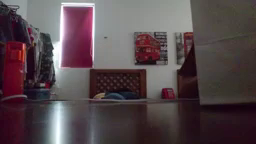
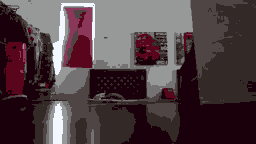
fixed the region shifts

diff --git a/MeanShiftTracking.py b/MeanShiftTracking.py
@@ -6,19 +6,19 @@ import math
 
 
 def computeBackProjection(roi, target):
-    roi_hist = cv2.calcHist([hsv],[0, 1], None, [180, 256], [0, 180, 0, 256] )
+    roihist = cv2.calcHist([roi],[0, 1], None, [180, 256], [0, 180, 0, 256] )
     channels = [0,1,2]
     binsBGR = [8,8,8]
     ranges = [0,256,0,256,0,256]
     bgrhist = cv2.calcHist([roi],channels, None, binsBGR, ranges )
     cv2.normalize(roihist,roihist,0,255,cv2.NORM_MINMAX)
-    dst = cv2.calcBackProject([hsvt],[0,1],roihist,[0,180,0,256],1)
+    dst = cv2.calcBackProject([target],[0,1],roihist,[0,180,0,256],1)
     disc = cv2.getStructuringElement(cv2.MORPH_ELLIPSE,(5,5))
     cv2.filter2D(dst,-1,disc,dst)
     ret,thresh = cv2.threshold(dst,50,255,0)
     thresh = cv2.merge((thresh,thresh,thresh))
     res = cv2.bitwise_and(target,thresh)
-    res = np.vstack((target,thresh,res))
+    #res = np.vstack((target,thresh,res))
     return res
 
 
@@ -86,70 +86,125 @@ def map_intesity_to_bin(intesity_value):
     elif intesity_value <= 256:
         return 7
     
-def compute_k_means_filtering(frame):
-    pass
+def compute_k_means_filtering(img):
+    Z = img.reshape((-1,3))
+    # convert to np.float32
+    Z = np.float32(Z)
+    # define criteria, number of clusters(K) and apply kmeans()
+    criteria = (cv2.TERM_CRITERIA_EPS + cv2.TERM_CRITERIA_MAX_ITER, 10, 1.0)
+    K = 8
+    ret,label,center=cv2.kmeans(Z,K,None,criteria,10,cv2.KMEANS_RANDOM_CENTERS)
+    # Now convert back into uint8, and make original image
+    center = np.uint8(center)
+    res = center[label.flatten()]
+    res2 = res.reshape((img.shape))
+    return cv2.normalize(res2,  res2, 0, 255, cv2.NORM_MINMAX)
+    
 
+
+def print_color_histogram(hist):
+    for i  in range(0 , hist.shape[0]):
+        for j in range(0 , hist.shape[1]):
+            for k in range(0, hist.shape[2]):
+                print('BIN ', i,j,k,"= ")
+                print(hist[i,j,k])
+
+def binarize(img):
+    for i in range(0, img.shape[0]):
+        for j in range(0, img.shape[1]):
+            if img[i,j] > 0.01:
+                img[i,j] = 255
+            else:
+                img[i,j] = 0
+    return img
 
 def computeWeightedHistogram(img, region_boundaries):
-    KERNEL_REG_TERM = 1.5
-    histogram = np.zeros((8,8 ,8), dtype = int) 
-    weight_matrix = np.zeros((height,width,3), np.float)
-    origin = np.array([region_boundaries["origin_x"],region_boundaries["origin_y"]])
+    histogram = np.zeros((8,8 ,8), dtype = float)     
+    weight_matrix = np.zeros((img.shape[0],img.shape[1]), np.float)
+    origin = np.array([int(math.ceil(region_boundaries["origin_y"])),int(math.ceil(region_boundaries["origin_x"]))])
     regularization_term = 0.0
-    for i in range(region_boundaries["from_x"], region_boundaries["to_x"]):
-        for j in range(region_boundaries["from_y"], region_boundaries["to_y"]):
+    for i in range(region_boundaries["from_y"], region_boundaries["to_y"]):
+        for j in range(region_boundaries["from_x"], region_boundaries["to_x"]):
             pixel_spatial_position = np.array([i, j])
-            weight = compute_gaussian_kernel(origin, pixel_spatial_position, KERNEL_REG_TERM)
-            i_sub_region = region_boundaries["from_x"] - i
-            j_sub_region = region_boundaries["from_y"] - j
+            weight = compute_gaussian_kernel(origin, pixel_spatial_position)
+            i_sub_region = abs(region_boundaries["from_y"] - i)
+            j_sub_region = abs(region_boundaries["from_x"] - j)
             weight_matrix[i_sub_region, j_sub_region] = weight
             B = map_intesity_to_bin(img[i, j, 0])
             G = map_intesity_to_bin(img[i, j, 1])
             R = map_intesity_to_bin(img[i, j, 2])
             histogram[B,G,R] += (1 + weight)
             regularization_term += weight
-    histogram = 1/regularization_term * histogram 
-    cv.imwrite('weight matrix.png', weight_matrix)
+    histogram = (1/regularization_term) * histogram 
     return histogram
 
 
-def compute_gaussian_kernel(origin, pixel_spatial_position, KERNEL_REG_TERM = 0.5):
-    return math.exp(- (np.linalg.norm((origin - pixel_spatial_position)/KERNEL_REG_TERM)))
+def compute_gaussian_kernel(origin, pixel_spatial_position, KERNEL_REG_COEFF = 1.5):
+    return math.exp(- (np.linalg.norm((origin - pixel_spatial_position)/KERNEL_REG_COEFF)))
+
+
+def compare_histograms(hist_a, hist_b):
+    for i  in range(0 , hist_a.shape[0]):
+        for j in range(0 , hist_a.shape[1]):
+            for k in range(0, hist_a.shape[2]):
+                if hist_a[i,j,k] != hist_b[i,j,k]:
+                    print('distinto')
 
 
 #Bhattacharyya coefficient
 def compute_similarity_coefficient(hist_target, hist_candidate):
-    root_product = math.sqrt(hist_target * hist_candidate)
+    root_product = np.sqrt(hist_target * hist_candidate)
     return root_product.sum()
 
+def map_rgb_to_greyscale(RGB_value):
+    B = RGB_value[0]
+    G = RGB_value[1]
+    R = RGB_value[2]
+    return (0.3 * B) + (0.6 * G) + (0.11 * R)
 
-def shift_mass_center(candidate_mass_center, candidate_weight_matrix, candidate_region):
-    width = candidate_= region.shape[0]
-    height = candidate_region.shape[1]
-    numerator = 0.0
+def shift_mass_center(candidate_mass_center, candidate_weight_matrix, region_boundaries):
+    from_x = region_boundaries["from_x"]
+    to_x = region_boundaries["to_x"]
+    from_y = region_boundaries["from_y"]
+    to_y = region_boundaries["to_y"]
     denominator = 0.0
-    origin = np.array([candidate_mass_center[0],candidate_mass_center[1]])
-    for i in range(0, width):
-        for j in range(0, height):
+    shift_x = 0.0
+    shift_y = 0.0
+    origin = np.array([candidate_mass_center[1],candidate_mass_center[0]])
+    for i in range(from_y, to_y):
+        for j in range(from_x, to_x):
+            i_sub_img = abs(from_y - i)
+            j_sub_img  = abs(from_x - j)
             pixel_spatial_position = np.array([i, j])
-            numerator += candidate_region[i,j] * candidate_weight_matrix[i,j] * compute_gaussian_kernel(origin, pixel_spatial_position)
-            denominator += candidate_weight_matrix[i,j] * compute_gaussian_kernel(origin, pixel_spatial_position)
-    mass_center = numerator/denominator
-    return (candidate_mass_center[0] + mass_center, candidate_mass_center[1] + mass_center)
+            shift_x += i * candidate_weight_matrix[i_sub_img,j_sub_img] * compute_gaussian_kernel(origin, pixel_spatial_position)
+            shift_y += j * candidate_weight_matrix[i_sub_img,j_sub_img] * compute_gaussian_kernel(origin, pixel_spatial_position)
+            denominator += candidate_weight_matrix[i_sub_img,j_sub_img] * compute_gaussian_kernel(origin, pixel_spatial_position)
+
+    shift_x = shift_x/denominator
+    shift_y = shift_y/denominator
+    return (shift_y, shift_x)
 
 
 def compute_weights_matrix(hist_target, hist_candidate, candidate_boundaries, candidate_region):
     height = candidate_region.shape[0]
     width =  candidate_region.shape[1]
-    weight_matrix = np.array((height, width), np.float)
-    for i in range(0, width):
-        for j in range(0, height):
+    weight_matrix = np.zeros((height, width), np.float)
+    for i in range(0, height):
+        for j in range(0, width):
             B = map_intesity_to_bin(candidate_region[i, j, 0])
             G = map_intesity_to_bin(candidate_region[i, j, 1])
             R = map_intesity_to_bin(candidate_region[i, j, 2])
-            weight_matrix[i,j] = math.sqrt(hist_target[B,G,R] / hist_candidate[B,G,R])
+            if math.sqrt(hist_target[B,G,R] != 0 and hist_candidate[B,G,R]) != 0:
+                weight_matrix[i,j] = math.sqrt(hist_target[B,G,R] / hist_candidate[B,G,R])
+            else:
+                weight_matrix[i,j] = 0
     return weight_matrix
 
+
+def print_matrix(matrix):
+     for i in range(0, matrix.shape[0]):
+        for j in range(0, matrix.shape[1]):
+            print(matrix[i,j])
 
 def region_extraction(img, region_boundaries):
     from_x = region_boundaries["from_x"]
@@ -173,13 +228,17 @@ def region_extraction(img, region_boundaries):
 def compute_region_boundaries(blob_params, reference_point):
     central_point_x = reference_point[0]
     central_point_y = reference_point[1]
+    MAG_EXPAC_N = 2.5
+    MAG_EXPAC_S = 2
+    MAG_EXPAC_E = 2.5
+    MAG_EXPAC_W = 2
     region_boundaries = {
-        "from_x": int(abs(central_point_x - blob_params["width"])),
-        "to_x": int(abs(central_point_x + blob_params["width"])),
-        "from_y":  int(abs(central_point_y - blob_params["longitude"])),
-        "to_y" : int(abs(central_point_y + blob_params["longitude"])),
-        "origin_x": central_point_x,
-        "origin_y": central_point_y
+        "from_x": int(abs(central_point_x - (blob_params["width"] * MAG_EXPAC_W))),
+        "to_x": int(abs(central_point_x + (blob_params["width"]* MAG_EXPAC_E))),
+        "from_y":  int(abs(central_point_y - (blob_params["longitude"] * MAG_EXPAC_N))),
+        "to_y" : int(abs(central_point_y + (blob_params["longitude"] * MAG_EXPAC_S))),
+        "origin_x": int(math.ceil(central_point_x)),
+        "origin_y": int(math.ceil(central_point_y))
     }
     return region_boundaries
 
@@ -188,7 +247,7 @@ def update_mass_center(centerA, centerB):
     centerA = np.array([centerA[0], centerA[1]])
     centerB = np.array([centerB[0], centerB[1]])
     new_center = (centerA + centerB)/2
-    return (new_center[0], new_center[1])
+    return ((new_center[0]), (new_center[1]))
 
 
 def computeCentroidDistance(centroidA, centroidB):
@@ -199,60 +258,86 @@ def computeCentroidDistance(centroidA, centroidB):
 
 def kernel_track(roi, cap, roi_centroid):
 
-    first_frame = compute_k_means_filtering(cap[0])
-    roi = compute_k_means_filtering(roi)
+    first_frame =  compute_k_means_filtering(cap[0])
     blob_params = computeBlobParams(roi)
+    target_boundaries = compute_region_boundaries(blob_params, roi_centroid)
     probability_map = computeBackProjection(roi, first_frame)
+    cv2.imwrite('initial_p-map.png', probability_map)
     target_model = computeWeightedHistogram(probability_map, target_boundaries)
-    current_centroid = roi_centroid
     candidate_boundaries = compute_region_boundaries(blob_params, current_centroid)
-    candidate_region = region_extraction(probability_map, candidate_boundaries)
-    epsilon = 0.01
+    current_centroid = roi_centroid
+    epsilon = 0.09
     print('\n-------------------------------------------------------------')
     print('\n\n-------------COMPUTING TRACKING REGISTRY-------------------')
     print('\n\n----------------------------------------------------------\n')
     print('epsilon = ', epsilon)
     input('Press enter to continue...\n')
     tracking_registry = list()
-    num_frame = 0
 
-    for frame in cap:  
+    for i in range(299, 300):  
 
-        frame = compute_k_means_filtering(frame)
+        frame = compute_k_means_filtering(cap[i])
         probability_map = computeBackProjection(roi, frame)
+        cv2.imwrite('initial_p-map.png', probability_map)
+        cv2.imwrite('frame.png', frame)
+        print('Starting candidate boundaries = ', candidate_boundaries)
         candidate_model = computeWeightedHistogram(probability_map, candidate_boundaries)
         old_similarity_coeff = compute_similarity_coefficient(target_model, candidate_model)
-
+        
         while True: 
 
-            weight_matrix = compute_weights_matrix(target_model, candidate_model, candidate_boundaries)
-            new_centroid = shift_mass_center(current_centroid, weight_matrix, candidate_region)
-            candidate_boundaries = compute_region_boundaries(blob_params, new_centroid)
+            print('\n\nNEW ATTEMPT')
+            candidate_region = region_extraction(probability_map, candidate_boundaries)
+            weight_matrix = compute_weights_matrix(target_model, candidate_model, candidate_boundaries, candidate_region)
+            new_centroid = shift_mass_center(current_centroid, weight_matrix, candidate_boundaries)
+            print('NEW CENTROID = ', new_centroid, "ORIGINAL_CENTROID = ", current_centroid)
+            candidate_boundaries = update_region_boundaries(candidate_boundaries, new_centroid)
+            print('New boundaries = ', candidate_boundaries)
             candidate_model = computeWeightedHistogram(probability_map, candidate_boundaries)
             new_similarity_coeff = compute_similarity_coefficient(target_model, candidate_model)
-           
+            print('NSC = ', new_similarity_coeff, ' vs OSC = ', old_similarity_coeff)
+
             while new_similarity_coeff < old_similarity_coeff:
 
-                print('Updating mass center...')
+                print('\n')
                 new_centroid = update_mass_center(new_centroid, current_centroid)
-                candidate_boundaries = compute_region_boundaries(blob_params, new_centroid)
+                print('updating center = ', new_centroid)
+                candidate_boundaries = update_region_boundaries(candidate_boundaries, new_centroid)
                 candidate_model = computeWeightedHistogram(probability_map, candidate_boundaries)
                 new_similarity_coeff = compute_similarity_coefficient(target_model, candidate_model)
-            
+                print('NSC = ', new_similarity_coeff, ' vs OSC = ', old_similarity_coeff)
+                print('Frame ' , i)
+                print('current candidate boundaries = ' , candidate_boundaries)
+                print('\n')
+
             centroid_distance = computeCentroidDistance(new_centroid, current_centroid)
+            print('centroid distance = ', centroid_distance)
             if centroid_distance < epsilon:
                 break
             else:
                 current_centroid = new_centroid
 
-        num_frame += 1
-        print('Frame ' , num_frame)
+        print('Frame ' , i)
         tracking_registry.append(candidate_boundaries)
         
     print('\n\ndone.')
     return tracking_registry
 
 
+def update_region_boundaries(region_boundaries, new_ref_point):
+    first_derivative_x = abs(int(math.ceil(new_ref_point[0])) - region_boundaries["origin_x"]) 
+    first_derivative_y = abs(int(math.ceil(new_ref_point[1])) - region_boundaries["origin_y"] )
+    new_region_boundaries = {
+        "from_x":  region_boundaries["from_x"] + origin_x,
+        "to_x":  region_boundaries["to_x"] + origin_x,
+        "from_y":  region_boundaries["from_y"] + origin_y,
+        "to_y" :region_boundaries["to_y"] + origin_y,
+        "origin_x": region_boundaries["origin_x"] + first_derivative_x,
+        "origin_y": region_boundaries["origin_y"] + first_derivative_y
+    }
+    return new_region_boundaries
+  
+    
 def loadVideo(path):
     cap = list()
     video = cv2.VideoCapture(path)
@@ -268,13 +353,11 @@ def computeBlobParams(roi):
     image_centroid = calculateImageCentroid(roi)
     longitude, width = computeWidthHeight(roi,image_centroid[0], image_centroid[1])
     orientation = computeOrientation(roi, image_centroid[0], image_centroid[1])
-    MAG_EXPAC_H = 2
-    MAG_EXPAC_W = 3
     blob_params  =  {
         "centroidX": int(image_centroid[0]),
         "centroidY": int(image_centroid[1]),
-        "longitude": int(longitude) * MAG_EXPAC_H,
-        "width": int(width) * MAG_EXPAC_W,
+        "longitude": int(longitude),
+        "width": int(width),
         "orientation": int(orientation),
     }    
     return blob_params
@@ -286,6 +369,7 @@ def paint_rectangle(blob_params, frame):
 
 def show_tracking_registry(cap_path, tracking_registry):
     i = 0
+    cap = cv2.VideoCapture(cap_path)
     while(i < len(tracking_registry)):
         blob_params =  tracking_registry[i]
         ret, frame = cap.read()
@@ -300,12 +384,14 @@ def show_tracking_registry(cap_path, tracking_registry):
 
 
 def main():
+
     cap_path = "slow.mp4"
     roi_centroid = (13,76)
     cap = loadVideo(cap_path)
     roi = cv2.imread('roi.png')
     tracking_registry = kernel_track(roi, cap, roi_centroid)
-    show_tracking_registry(cap_path, tracking_registry)
+    input('Press enter to continue...')
+    #show_tracking_registry(cap_path, tracking_registry)
     
 
 
